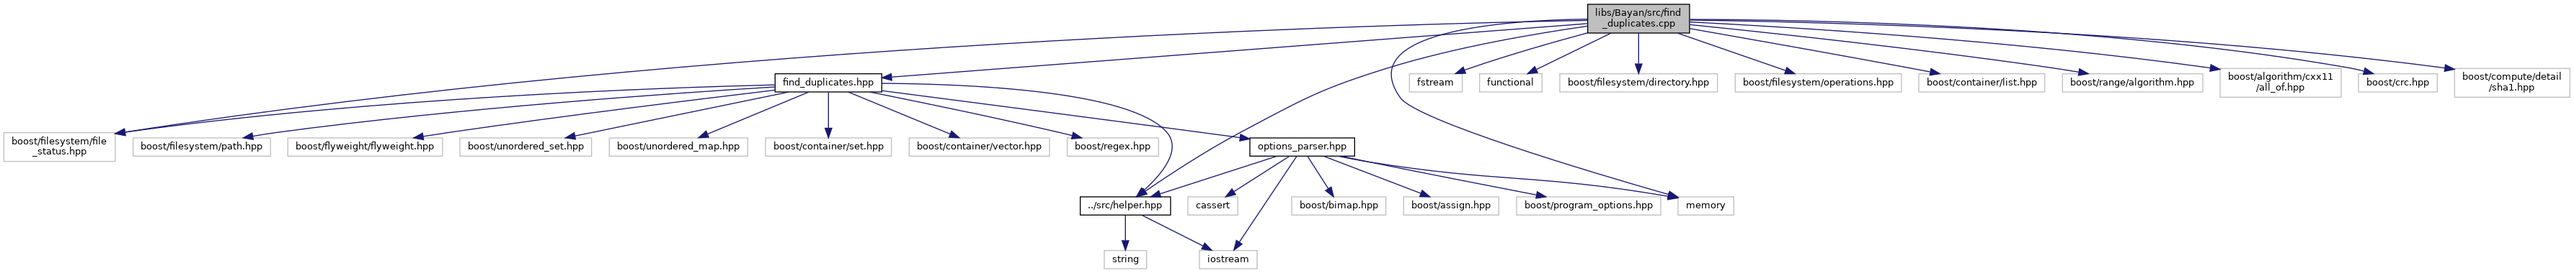
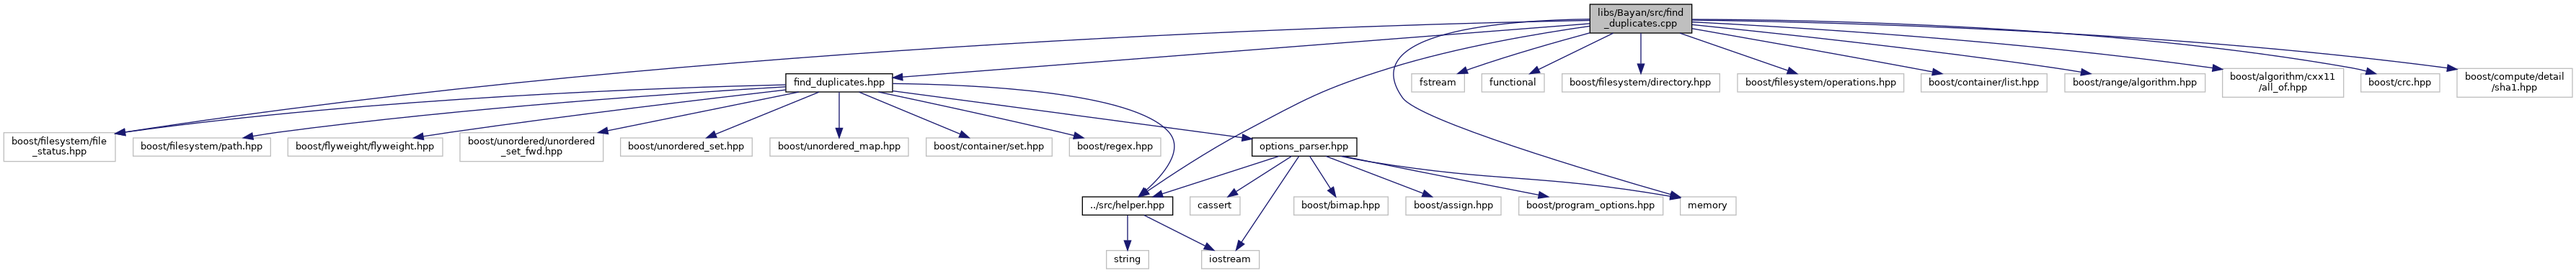
Deploying to gh-pages from @ NotZahar/bayan@1234aafaee01aa2d86c95944fb79ae6e6361fd2a 🚀

diff --git a/find__duplicates_8hpp_source.html b/find__duplicates_8hpp_source.html
@@ -77,10 +77,10 @@ $(function() {
 <div class="line"><a name="l00004"></a><span class="lineno">    4</span>&#160;<span class="preprocessor">#include &lt;boost/filesystem/file_status.hpp&gt;</span></div>
 <div class="line"><a name="l00005"></a><span class="lineno">    5</span>&#160;<span class="preprocessor">#include &lt;boost/filesystem/path.hpp&gt;</span></div>
 <div class="line"><a name="l00006"></a><span class="lineno">    6</span>&#160;<span class="preprocessor">#include &lt;boost/flyweight/flyweight.hpp&gt;</span></div>
-<div class="line"><a name="l00007"></a><span class="lineno">    7</span>&#160;<span class="preprocessor">#include &lt;boost/unordered_set.hpp&gt;</span></div>
-<div class="line"><a name="l00008"></a><span class="lineno">    8</span>&#160;<span class="preprocessor">#include &lt;boost/unordered_map.hpp&gt;</span></div>
-<div class="line"><a name="l00009"></a><span class="lineno">    9</span>&#160;<span class="preprocessor">#include &lt;boost/container/set.hpp&gt;</span></div>
-<div class="line"><a name="l00010"></a><span class="lineno">   10</span>&#160;<span class="preprocessor">#include &lt;boost/container/vector.hpp&gt;</span></div>
+<div class="line"><a name="l00007"></a><span class="lineno">    7</span>&#160;<span class="preprocessor">#include &lt;boost/unordered/unordered_set_fwd.hpp&gt;</span></div>
+<div class="line"><a name="l00008"></a><span class="lineno">    8</span>&#160;<span class="preprocessor">#include &lt;boost/unordered_set.hpp&gt;</span></div>
+<div class="line"><a name="l00009"></a><span class="lineno">    9</span>&#160;<span class="preprocessor">#include &lt;boost/unordered_map.hpp&gt;</span></div>
+<div class="line"><a name="l00010"></a><span class="lineno">   10</span>&#160;<span class="preprocessor">#include &lt;boost/container/set.hpp&gt;</span></div>
 <div class="line"><a name="l00011"></a><span class="lineno">   11</span>&#160;<span class="preprocessor">#include &lt;boost/regex.hpp&gt;</span></div>
 <div class="line"><a name="l00012"></a><span class="lineno">   12</span>&#160; </div>
 <div class="line"><a name="l00013"></a><span class="lineno">   13</span>&#160;<span class="preprocessor">#include &quot;<a class="code" href="options__parser_8hpp.html">options_parser.hpp</a>&quot;</span></div>
@@ -93,7 +93,7 @@ $(function() {
 <div class="line"><a name="l00020"></a><span class="lineno">   20</span>&#160;        <span class="keyword">explicit</span> <a class="code" href="classbayan_1_1FindDuplicates.html#abafa29fdb6be05ac0e37fa89cdb2cc69">FindDuplicates</a>(<a class="code" href="structbayan_1_1OptionsParser_1_1Options.html">OptionsParser::Options</a> options);</div>
 <div class="line"><a name="l00021"></a><span class="lineno"><a class="line" href="classbayan_1_1FindDuplicates.html#a43cbff9e5eaf21ba41545597d4b7656d">   21</a></span>&#160;        <a class="code" href="classbayan_1_1FindDuplicates.html#a43cbff9e5eaf21ba41545597d4b7656d">~FindDuplicates</a>() = <span class="keywordflow">default</span>;</div>
 <div class="line"><a name="l00022"></a><span class="lineno">   22</span>&#160; </div>
-<div class="line"><a name="l00023"></a><span class="lineno">   23</span>&#160;        boost::container::set&lt;boost::container::set&lt;std::string&gt;&gt; <a class="code" href="classbayan_1_1FindDuplicates.html#a32cf64eebef64dd78d116d3f567a406b">duplicates</a>() <span class="keyword">const</span>;</div>
+<div class="line"><a name="l00023"></a><span class="lineno">   23</span>&#160;        boost::container::set&lt;boost::container::set&lt;boost::filesystem::path&gt;&gt; <a class="code" href="classbayan_1_1FindDuplicates.html#a693e297272a562b4d91ee519ba6b542b">duplicates</a>() <span class="keyword">const</span>;</div>
 <div class="line"><a name="l00024"></a><span class="lineno">   24</span>&#160; </div>
 <div class="line"><a name="l00025"></a><span class="lineno">   25</span>&#160;    <span class="keyword">private</span>:</div>
 <div class="line"><a name="l00026"></a><span class="lineno">   26</span>&#160;        <span class="keyword">enum class</span> fileType {</div>
@@ -112,10 +112,10 @@ $(function() {
 <div class="line"><a name="l00039"></a><span class="lineno">   39</span>&#160;            <span class="keywordtype">unsigned</span> <span class="keywordtype">int</span> size;</div>
 <div class="line"><a name="l00040"></a><span class="lineno">   40</span>&#160;        };</div>
 <div class="line"><a name="l00041"></a><span class="lineno">   41</span>&#160; </div>
-<div class="line"><a name="l00042"></a><span class="lineno">   42</span>&#160;        <span class="keyword">using</span> scanFiles_t = boost::unordered_map&lt;unsigned int, boost::container::vector&lt;boost::filesystem::path&gt;&gt;;</div>
+<div class="line"><a name="l00042"></a><span class="lineno">   42</span>&#160;        <span class="keyword">using</span> scanFiles_t = boost::unordered_map&lt;unsigned int, boost::unordered_set&lt;boost::filesystem::path&gt;&gt;;</div>
 <div class="line"><a name="l00043"></a><span class="lineno">   43</span>&#160; </div>
 <div class="line"><a name="l00044"></a><span class="lineno">   44</span>&#160;        scanFiles_t getFilesToFind() <span class="keyword">const</span>;</div>
-<div class="line"><a name="l00045"></a><span class="lineno">   45</span>&#160;        boost::container::set&lt;boost::container::set&lt;std::string&gt;&gt; findDuplicates(scanFiles_t scanFiles) <span class="keyword">const</span>;</div>
+<div class="line"><a name="l00045"></a><span class="lineno">   45</span>&#160;        boost::container::set&lt;boost::container::set&lt;boost::filesystem::path&gt;&gt; findDuplicates(scanFiles_t scanFiles) <span class="keyword">const</span>;</div>
 <div class="line"><a name="l00046"></a><span class="lineno">   46</span>&#160;        fileType getFileType(<span class="keyword">const</span> boost::filesystem::directory_entry&amp; file) <span class="keyword">const</span>;</div>
 <div class="line"><a name="l00047"></a><span class="lineno">   47</span>&#160;        FilterResult filterPassed(<span class="keyword">const</span> boost::filesystem::path&amp; path) <span class="keyword">const</span>;</div>
 <div class="line"><a name="l00048"></a><span class="lineno">   48</span>&#160; </div>
@@ -131,8 +131,8 @@ $(function() {
 <div class="line"><a name="l00058"></a><span class="lineno">   58</span>&#160; </div>
 <div class="line"><a name="l00059"></a><span class="lineno">   59</span>&#160;<span class="preprocessor">#endif </span><span class="comment">// FIND_DUPLICATES_H</span></div>
 <div class="ttc" id="aclassbayan_1_1FindDuplicates_html"><div class="ttname"><a href="classbayan_1_1FindDuplicates.html">bayan::FindDuplicates</a></div><div class="ttdef"><b>Definition:</b> find_duplicates.hpp:17</div></div>
-<div class="ttc" id="aclassbayan_1_1FindDuplicates_html_a32cf64eebef64dd78d116d3f567a406b"><div class="ttname"><a href="classbayan_1_1FindDuplicates.html#a32cf64eebef64dd78d116d3f567a406b">bayan::FindDuplicates::duplicates</a></div><div class="ttdeci">boost::container::set&lt; boost::container::set&lt; std::string &gt; &gt; duplicates() const</div><div class="ttdef"><b>Definition:</b> find_duplicates.cpp:38</div></div>
 <div class="ttc" id="aclassbayan_1_1FindDuplicates_html_a43cbff9e5eaf21ba41545597d4b7656d"><div class="ttname"><a href="classbayan_1_1FindDuplicates.html#a43cbff9e5eaf21ba41545597d4b7656d">bayan::FindDuplicates::~FindDuplicates</a></div><div class="ttdeci">~FindDuplicates()=default</div></div>
+<div class="ttc" id="aclassbayan_1_1FindDuplicates_html_a693e297272a562b4d91ee519ba6b542b"><div class="ttname"><a href="classbayan_1_1FindDuplicates.html#a693e297272a562b4d91ee519ba6b542b">bayan::FindDuplicates::duplicates</a></div><div class="ttdeci">boost::container::set&lt; boost::container::set&lt; boost::filesystem::path &gt; &gt; duplicates() const</div><div class="ttdef"><b>Definition:</b> find_duplicates.cpp:38</div></div>
 <div class="ttc" id="aclassbayan_1_1FindDuplicates_html_abafa29fdb6be05ac0e37fa89cdb2cc69"><div class="ttname"><a href="classbayan_1_1FindDuplicates.html#abafa29fdb6be05ac0e37fa89cdb2cc69">bayan::FindDuplicates::FindDuplicates</a></div><div class="ttdeci">FindDuplicates()=delete</div></div>
 <div class="ttc" id="anamespacebayan_html"><div class="ttname"><a href="namespacebayan.html">bayan</a></div><div class="ttdef"><b>Definition:</b> find_duplicates.hpp:16</div></div>
 <div class="ttc" id="anamespacebayan_html_a6c9e7c798ad66b9e4be5bdac54ef967f"><div class="ttname"><a href="namespacebayan.html#a6c9e7c798ad66b9e4be5bdac54ef967f">bayan::hashAlgorithm</a></div><div class="ttdeci">hashAlgorithm</div><div class="ttdef"><b>Definition:</b> helper.hpp:13</div></div>

diff --git a/find__duplicates_8cpp.html b/find__duplicates_8cpp.html
@@ -91,34 +91,34 @@ $(function() {
 <div class="dyncontent">
 <div class="center"><img src="find__duplicates_8cpp__incl.png" border="0" usemap="#alibs_2Bayan_2src_2find__duplicates_8cpp" alt=""/></div>
 <map name="alibs_2Bayan_2src_2find__duplicates_8cpp" id="alibs_2Bayan_2src_2find__duplicates_8cpp">
-<area shape="rect" title=" " alt="" coords="2203,5,2344,47"/>
-<area shape="rect" href="find__duplicates_8hpp.html" title=" " alt="" coords="1075,102,1223,129"/>
+<area shape="rect" title=" " alt="" coords="2205,5,2347,47"/>
+<area shape="rect" href="find__duplicates_8hpp.html" title=" " alt="" coords="1090,102,1238,129"/>
 <area shape="rect" title=" " alt="" coords="5,184,160,225"/>
-<area shape="rect" title=" " alt="" coords="2328,273,2405,300"/>
-<area shape="rect" href="helper_8hpp.html" title=" " alt="" coords="1499,273,1624,300"/>
-<area shape="rect" title=" " alt="" coords="1955,102,2029,129"/>
-<area shape="rect" title=" " alt="" coords="2053,102,2139,129"/>
-<area shape="rect" title=" " alt="" coords="2164,102,2383,129"/>
-<area shape="rect" title=" " alt="" coords="2407,102,2638,129"/>
-<area shape="rect" title=" " alt="" coords="2662,102,2837,129"/>
-<area shape="rect" title=" " alt="" coords="2861,102,3056,129"/>
-<area shape="rect" title=" " alt="" coords="3080,95,3248,136"/>
-<area shape="rect" title=" " alt="" coords="3272,102,3381,129"/>
-<area shape="rect" title=" " alt="" coords="3405,95,3565,136"/>
+<area shape="rect" title=" " alt="" coords="2331,273,2408,300"/>
+<area shape="rect" href="helper_8hpp.html" title=" " alt="" coords="1501,273,1627,300"/>
+<area shape="rect" title=" " alt="" coords="1958,102,2031,129"/>
+<area shape="rect" title=" " alt="" coords="2055,102,2142,129"/>
+<area shape="rect" title=" " alt="" coords="2167,102,2385,129"/>
+<area shape="rect" title=" " alt="" coords="2410,102,2641,129"/>
+<area shape="rect" title=" " alt="" coords="2665,102,2839,129"/>
+<area shape="rect" title=" " alt="" coords="2864,102,3059,129"/>
+<area shape="rect" title=" " alt="" coords="3083,95,3251,136"/>
+<area shape="rect" title=" " alt="" coords="3275,102,3384,129"/>
+<area shape="rect" title=" " alt="" coords="3408,95,3568,136"/>
 <area shape="rect" title=" " alt="" coords="185,191,375,218"/>
 <area shape="rect" title=" " alt="" coords="399,191,614,218"/>
-<area shape="rect" title=" " alt="" coords="638,191,821,218"/>
-<area shape="rect" title=" " alt="" coords="845,191,1037,218"/>
-<area shape="rect" title=" " alt="" coords="1062,191,1237,218"/>
-<area shape="rect" title=" " alt="" coords="1261,191,1456,218"/>
-<area shape="rect" title=" " alt="" coords="1481,191,1607,218"/>
-<area shape="rect" href="options__parser_8hpp.html" title=" " alt="" coords="1734,191,1879,218"/>
-<area shape="rect" title=" " alt="" coords="1648,273,1717,300"/>
-<area shape="rect" title=" " alt="" coords="1664,348,1744,375"/>
-<area shape="rect" title=" " alt="" coords="1792,273,1923,300"/>
-<area shape="rect" title=" " alt="" coords="1947,273,2079,300"/>
-<area shape="rect" title=" " alt="" coords="2104,273,2304,300"/>
-<area shape="rect" title=" " alt="" coords="1532,348,1591,375"/>
+<area shape="rect" title=" " alt="" coords="638,184,837,225"/>
+<area shape="rect" title=" " alt="" coords="861,191,1043,218"/>
+<area shape="rect" title=" " alt="" coords="1068,191,1260,218"/>
+<area shape="rect" title=" " alt="" coords="1285,191,1459,218"/>
+<area shape="rect" title=" " alt="" coords="1483,191,1610,218"/>
+<area shape="rect" href="options__parser_8hpp.html" title=" " alt="" coords="1737,191,1882,218"/>
+<area shape="rect" title=" " alt="" coords="1651,273,1720,300"/>
+<area shape="rect" title=" " alt="" coords="1667,348,1747,375"/>
+<area shape="rect" title=" " alt="" coords="1795,273,1925,300"/>
+<area shape="rect" title=" " alt="" coords="1950,273,2082,300"/>
+<area shape="rect" title=" " alt="" coords="2107,273,2307,300"/>
+<area shape="rect" title=" " alt="" coords="1535,348,1593,375"/>
 </map>
 </div>
 </div><table class="memberdecls">

diff --git a/find__duplicates_8hpp.html b/find__duplicates_8hpp.html
@@ -77,10 +77,10 @@ $(function() {
 <div class="textblock"><code>#include &lt;boost/filesystem/file_status.hpp&gt;</code><br />
 <code>#include &lt;boost/filesystem/path.hpp&gt;</code><br />
 <code>#include &lt;boost/flyweight/flyweight.hpp&gt;</code><br />
+<code>#include &lt;boost/unordered/unordered_set_fwd.hpp&gt;</code><br />
 <code>#include &lt;boost/unordered_set.hpp&gt;</code><br />
 <code>#include &lt;boost/unordered_map.hpp&gt;</code><br />
 <code>#include &lt;boost/container/set.hpp&gt;</code><br />
-<code>#include &lt;boost/container/vector.hpp&gt;</code><br />
 <code>#include &lt;boost/regex.hpp&gt;</code><br />
 <code>#include &quot;<a class="el" href="options__parser_8hpp_source.html">options_parser.hpp</a>&quot;</code><br />
 <code>#include &quot;<a class="el" href="helper_8hpp_source.html">../src/helper.hpp</a>&quot;</code><br />
@@ -89,24 +89,24 @@ $(function() {
 <div class="dyncontent">
 <div class="center"><img src="find__duplicates_8hpp__incl.png" border="0" usemap="#alibs_2Bayan_2include_2find__duplicates_8hpp" alt=""/></div>
 <map name="alibs_2Bayan_2include_2find__duplicates_8hpp" id="alibs_2Bayan_2include_2find__duplicates_8hpp">
-<area shape="rect" title=" " alt="" coords="969,5,1121,47"/>
+<area shape="rect" title=" " alt="" coords="981,5,1133,47"/>
 <area shape="rect" title=" " alt="" coords="5,95,160,136"/>
 <area shape="rect" title=" " alt="" coords="185,102,375,129"/>
 <area shape="rect" title=" " alt="" coords="399,102,614,129"/>
-<area shape="rect" title=" " alt="" coords="638,102,821,129"/>
-<area shape="rect" title=" " alt="" coords="845,102,1037,129"/>
-<area shape="rect" title=" " alt="" coords="1062,102,1237,129"/>
-<area shape="rect" title=" " alt="" coords="1261,102,1456,129"/>
-<area shape="rect" title=" " alt="" coords="1481,102,1607,129"/>
-<area shape="rect" href="options__parser_8hpp.html" title=" " alt="" coords="1631,102,1777,129"/>
-<area shape="rect" href="helper_8hpp.html" title=" " alt="" coords="2096,184,2221,211"/>
-<area shape="rect" title=" " alt="" coords="1315,184,1384,211"/>
-<area shape="rect" title=" " alt="" coords="1704,259,1784,285"/>
-<area shape="rect" title=" " alt="" coords="1459,184,1536,211"/>
-<area shape="rect" title=" " alt="" coords="1560,184,1691,211"/>
-<area shape="rect" title=" " alt="" coords="1715,184,1847,211"/>
-<area shape="rect" title=" " alt="" coords="1872,184,2072,211"/>
-<area shape="rect" title=" " alt="" coords="2129,259,2188,285"/>
+<area shape="rect" title=" " alt="" coords="638,95,837,136"/>
+<area shape="rect" title=" " alt="" coords="861,102,1043,129"/>
+<area shape="rect" title=" " alt="" coords="1068,102,1260,129"/>
+<area shape="rect" title=" " alt="" coords="1285,102,1459,129"/>
+<area shape="rect" title=" " alt="" coords="1483,102,1610,129"/>
+<area shape="rect" href="options__parser_8hpp.html" title=" " alt="" coords="1634,102,1779,129"/>
+<area shape="rect" href="helper_8hpp.html" title=" " alt="" coords="2099,184,2224,211"/>
+<area shape="rect" title=" " alt="" coords="1317,184,1387,211"/>
+<area shape="rect" title=" " alt="" coords="1707,259,1787,285"/>
+<area shape="rect" title=" " alt="" coords="1461,184,1539,211"/>
+<area shape="rect" title=" " alt="" coords="1563,184,1693,211"/>
+<area shape="rect" title=" " alt="" coords="1718,184,1850,211"/>
+<area shape="rect" title=" " alt="" coords="1875,184,2075,211"/>
+<area shape="rect" title=" " alt="" coords="2132,259,2191,285"/>
 </map>
 </div>
 </div><div class="textblock"><div class="dynheader">

diff --git a/options__parser_8hpp_source.html b/options__parser_8hpp_source.html
@@ -102,7 +102,7 @@ $(function() {
 <div class="line"><a name="l00029"></a><span class="lineno"><a class="line" href="structbayan_1_1OptionsParser_1_1Options.html#a7f900f5eefc86eb4b84a40544c184cc7">   29</a></span>&#160;            <span class="keywordtype">unsigned</span> <span class="keywordtype">int</span> <a class="code" href="structbayan_1_1OptionsParser_1_1Options.html#a7f900f5eefc86eb4b84a40544c184cc7">fileMinSize</a> = 1;</div>
 <div class="line"><a name="l00030"></a><span class="lineno"><a class="line" href="structbayan_1_1OptionsParser_1_1Options.html#ae81161c2ed1ecb5845852b2fdfc58042">   30</a></span>&#160;            std::vector&lt;std::string&gt; <a class="code" href="structbayan_1_1OptionsParser_1_1Options.html#ae81161c2ed1ecb5845852b2fdfc58042">fileMasks</a> = { <span class="stringliteral">&quot;.*&quot;</span> };</div>
 <div class="line"><a name="l00031"></a><span class="lineno"><a class="line" href="structbayan_1_1OptionsParser_1_1Options.html#adb911a54ca88e56a00f5b808550c91a0">   31</a></span>&#160;            <span class="keywordtype">unsigned</span> <span class="keywordtype">int</span> <a class="code" href="structbayan_1_1OptionsParser_1_1Options.html#adb911a54ca88e56a00f5b808550c91a0">blockSize</a> = 5;</div>
-<div class="line"><a name="l00032"></a><span class="lineno"><a class="line" href="structbayan_1_1OptionsParser_1_1Options.html#a6d46f13243288e16505b35532a22dd0e">   32</a></span>&#160;            <a class="code" href="namespacebayan.html#a6c9e7c798ad66b9e4be5bdac54ef967f">hashAlgorithm</a> <a class="code" href="structbayan_1_1OptionsParser_1_1Options.html#a6d46f13243288e16505b35532a22dd0e">algorithm</a> = <a class="code" href="namespacebayan.html#a6c9e7c798ad66b9e4be5bdac54ef967fa74a89174426b40307102e165374ab8ab">hashAlgorithm::sha1</a>;</div>
+<div class="line"><a name="l00032"></a><span class="lineno"><a class="line" href="structbayan_1_1OptionsParser_1_1Options.html#a6d46f13243288e16505b35532a22dd0e">   32</a></span>&#160;            <a class="code" href="namespacebayan.html#a6c9e7c798ad66b9e4be5bdac54ef967f">hashAlgorithm</a> <a class="code" href="structbayan_1_1OptionsParser_1_1Options.html#a6d46f13243288e16505b35532a22dd0e">algorithm</a> = <a class="code" href="namespacebayan.html#a6c9e7c798ad66b9e4be5bdac54ef967fa058063301b99cb43d6165291cb9f086a">hashAlgorithm::crc32</a>;</div>
 <div class="line"><a name="l00033"></a><span class="lineno">   33</span>&#160; </div>
 <div class="line"><a name="l00034"></a><span class="lineno">   34</span>&#160;            <span class="keyword">friend</span> std::ostream&amp; <a class="code" href="structbayan_1_1OptionsParser_1_1Options.html#a4a0f229a993110a8fd20f91da0c53764">operator&lt;&lt;</a>(std::ostream&amp; os, <span class="keyword">const</span> <a class="code" href="structbayan_1_1OptionsParser_1_1Options.html">Options</a>&amp; options);</div>
 <div class="line"><a name="l00035"></a><span class="lineno">   35</span>&#160;        };</div>

diff --git a/structbayan_1_1OptionsParser_1_1Options.html b/structbayan_1_1OptionsParser_1_1Options.html
@@ -94,7 +94,7 @@ $(function() {
 <tr class="separator:ae81161c2ed1ecb5845852b2fdfc58042"><td class="memSeparator" colspan="2">&#160;</td></tr>
 <tr class="memitem:adb911a54ca88e56a00f5b808550c91a0"><td class="memItemLeft" align="right" valign="top">unsigned int&#160;</td><td class="memItemRight" valign="bottom"><a class="el" href="structbayan_1_1OptionsParser_1_1Options.html#adb911a54ca88e56a00f5b808550c91a0">blockSize</a> = 5</td></tr>
 <tr class="separator:adb911a54ca88e56a00f5b808550c91a0"><td class="memSeparator" colspan="2">&#160;</td></tr>
-<tr class="memitem:a6d46f13243288e16505b35532a22dd0e"><td class="memItemLeft" align="right" valign="top"><a class="el" href="namespacebayan.html#a6c9e7c798ad66b9e4be5bdac54ef967f">hashAlgorithm</a>&#160;</td><td class="memItemRight" valign="bottom"><a class="el" href="structbayan_1_1OptionsParser_1_1Options.html#a6d46f13243288e16505b35532a22dd0e">algorithm</a> = <a class="el" href="namespacebayan.html#a6c9e7c798ad66b9e4be5bdac54ef967fa74a89174426b40307102e165374ab8ab">hashAlgorithm::sha1</a></td></tr>
+<tr class="memitem:a6d46f13243288e16505b35532a22dd0e"><td class="memItemLeft" align="right" valign="top"><a class="el" href="namespacebayan.html#a6c9e7c798ad66b9e4be5bdac54ef967f">hashAlgorithm</a>&#160;</td><td class="memItemRight" valign="bottom"><a class="el" href="structbayan_1_1OptionsParser_1_1Options.html#a6d46f13243288e16505b35532a22dd0e">algorithm</a> = <a class="el" href="namespacebayan.html#a6c9e7c798ad66b9e4be5bdac54ef967fa058063301b99cb43d6165291cb9f086a">hashAlgorithm::crc32</a></td></tr>
 <tr class="separator:a6d46f13243288e16505b35532a22dd0e"><td class="memSeparator" colspan="2">&#160;</td></tr>
 </table><table class="memberdecls">
 <tr class="heading"><td colspan="2"><h2 class="groupheader"><a name="friends"></a>
@@ -147,7 +147,7 @@ $(function() {
 <div class="memproto">
       <table class="memname">
         <tr>
-          <td class="memname"><a class="el" href="namespacebayan.html#a6c9e7c798ad66b9e4be5bdac54ef967f">hashAlgorithm</a> bayan::OptionsParser::Options::algorithm = <a class="el" href="namespacebayan.html#a6c9e7c798ad66b9e4be5bdac54ef967fa74a89174426b40307102e165374ab8ab">hashAlgorithm::sha1</a></td>
+          <td class="memname"><a class="el" href="namespacebayan.html#a6c9e7c798ad66b9e4be5bdac54ef967f">hashAlgorithm</a> bayan::OptionsParser::Options::algorithm = <a class="el" href="namespacebayan.html#a6c9e7c798ad66b9e4be5bdac54ef967fa058063301b99cb43d6165291cb9f086a">hashAlgorithm::crc32</a></td>
         </tr>
       </table>
 </div><div class="memdoc">

diff --git a/classbayan_1_1FindDuplicates.html b/classbayan_1_1FindDuplicates.html
@@ -86,8 +86,8 @@ $(function() {
 <tr class="separator:a7e90ac128fc362860f0ab2ae2a803263"><td class="memSeparator" colspan="2">&#160;</td></tr>
 <tr class="memitem:a43cbff9e5eaf21ba41545597d4b7656d"><td class="memItemLeft" align="right" valign="top">&#160;</td><td class="memItemRight" valign="bottom"><a class="el" href="classbayan_1_1FindDuplicates.html#a43cbff9e5eaf21ba41545597d4b7656d">~FindDuplicates</a> ()=default</td></tr>
 <tr class="separator:a43cbff9e5eaf21ba41545597d4b7656d"><td class="memSeparator" colspan="2">&#160;</td></tr>
-<tr class="memitem:a32cf64eebef64dd78d116d3f567a406b"><td class="memItemLeft" align="right" valign="top">boost::container::set&lt; boost::container::set&lt; std::string &gt; &gt;&#160;</td><td class="memItemRight" valign="bottom"><a class="el" href="classbayan_1_1FindDuplicates.html#a32cf64eebef64dd78d116d3f567a406b">duplicates</a> () const</td></tr>
-<tr class="separator:a32cf64eebef64dd78d116d3f567a406b"><td class="memSeparator" colspan="2">&#160;</td></tr>
+<tr class="memitem:a693e297272a562b4d91ee519ba6b542b"><td class="memItemLeft" align="right" valign="top">boost::container::set&lt; boost::container::set&lt; boost::filesystem::path &gt; &gt;&#160;</td><td class="memItemRight" valign="bottom"><a class="el" href="classbayan_1_1FindDuplicates.html#a693e297272a562b4d91ee519ba6b542b">duplicates</a> () const</td></tr>
+<tr class="separator:a693e297272a562b4d91ee519ba6b542b"><td class="memSeparator" colspan="2">&#160;</td></tr>
 </table>
 <h2 class="groupheader">Конструктор(ы)</h2>
 <a id="abafa29fdb6be05ac0e37fa89cdb2cc69"></a>
@@ -167,14 +167,14 @@ $(function() {
 </div>
 </div>
 <h2 class="groupheader">Методы</h2>
-<a id="a32cf64eebef64dd78d116d3f567a406b"></a>
-<h2 class="memtitle"><span class="permalink"><a href="#a32cf64eebef64dd78d116d3f567a406b">&#9670;&nbsp;</a></span>duplicates()</h2>
+<a id="a693e297272a562b4d91ee519ba6b542b"></a>
+<h2 class="memtitle"><span class="permalink"><a href="#a693e297272a562b4d91ee519ba6b542b">&#9670;&nbsp;</a></span>duplicates()</h2>
 
 <div class="memitem">
 <div class="memproto">
       <table class="memname">
         <tr>
-          <td class="memname">boost_cr::set&lt; boost_cr::set&lt; std::string &gt; &gt; bayan::FindDuplicates::duplicates </td>
+          <td class="memname">boost_cr::set&lt; boost_cr::set&lt; boost_fs::path &gt; &gt; bayan::FindDuplicates::duplicates </td>
           <td>(</td>
           <td class="paramname"></td><td>)</td>
           <td> const</td>

diff --git a/classbayan_1_1FindDuplicates-members.html b/classbayan_1_1FindDuplicates-members.html
@@ -74,7 +74,7 @@ $(function() {
 
 <p>Полный список членов класса <a class="el" href="classbayan_1_1FindDuplicates.html">bayan::FindDuplicates</a>, включая наследуемые из базового класса</p>
 <table class="directory">
-  <tr class="even"><td class="entry"><a class="el" href="classbayan_1_1FindDuplicates.html#a32cf64eebef64dd78d116d3f567a406b">duplicates</a>() const</td><td class="entry"><a class="el" href="classbayan_1_1FindDuplicates.html">bayan::FindDuplicates</a></td><td class="entry"></td></tr>
+  <tr class="even"><td class="entry"><a class="el" href="classbayan_1_1FindDuplicates.html#a693e297272a562b4d91ee519ba6b542b">duplicates</a>() const</td><td class="entry"><a class="el" href="classbayan_1_1FindDuplicates.html">bayan::FindDuplicates</a></td><td class="entry"></td></tr>
   <tr><td class="entry"><a class="el" href="classbayan_1_1FindDuplicates.html#abafa29fdb6be05ac0e37fa89cdb2cc69">FindDuplicates</a>()=delete</td><td class="entry"><a class="el" href="classbayan_1_1FindDuplicates.html">bayan::FindDuplicates</a></td><td class="entry"></td></tr>
   <tr class="even"><td class="entry"><a class="el" href="classbayan_1_1FindDuplicates.html#a7e90ac128fc362860f0ab2ae2a803263">FindDuplicates</a>(OptionsParser::Options options)</td><td class="entry"><a class="el" href="classbayan_1_1FindDuplicates.html">bayan::FindDuplicates</a></td><td class="entry"><span class="mlabel">explicit</span></td></tr>
   <tr><td class="entry"><a class="el" href="classbayan_1_1FindDuplicates.html#a43cbff9e5eaf21ba41545597d4b7656d">~FindDuplicates</a>()=default</td><td class="entry"><a class="el" href="classbayan_1_1FindDuplicates.html">bayan::FindDuplicates</a></td><td class="entry"></td></tr>

diff --git a/md_README.html b/md_README.html
@@ -76,11 +76,11 @@ $(function() {
  <b>-f</b> минимальный размер файла (&gt;= <code>1</code>) <br  />
  <b>-m</b> маски имен файлов разрешенных для сравнения (регулярное выражение, параметр указывается в конце) <br  />
  <b>-b</b> размер блока чтения <br  />
- <b>-a</b> алгоритм хэширования (<code>crc32</code>, <code>md5</code>) <br  />
+ <b>-a</b> алгоритм хэширования (<code>crc32</code>, <code>sha1</code>) <br  />
 </p>
 <h4><a class="anchor" id="autotoc_md2"></a>
 Пример:</h4>
-<p><code>bayan -d./test -d"./libs" -e"./test/test 1" -l1 -f1 -m".*\\.txt" -m".*a{1,}.*" -b5 -amd5</code></p>
+<p><code>bayan -d./test -d"./libs" -e"./test/test 1" -l1 -f1 -m".*\\.txt" -m".*a{1,}.*" -b5 -acrc32</code></p>
 <p>Документация: <a href="https://notzahar.github.io/bayan/">https://notzahar.github.io/bayan/</a> </p>
 </div></div><!-- contents -->
 </div><!-- PageDoc -->

diff --git a/main_8cpp.html b/main_8cpp.html
@@ -95,11 +95,11 @@ $(function() {
 <area shape="rect" title=" " alt="" coords="491,155,645,196"/>
 <area shape="rect" title=" " alt="" coords="670,162,861,189"/>
 <area shape="rect" title=" " alt="" coords="885,162,1099,189"/>
-<area shape="rect" title=" " alt="" coords="1123,162,1306,189"/>
-<area shape="rect" title=" " alt="" coords="1331,162,1523,189"/>
-<area shape="rect" title=" " alt="" coords="1547,162,1722,189"/>
-<area shape="rect" title=" " alt="" coords="1747,162,1941,189"/>
-<area shape="rect" title=" " alt="" coords="1966,162,2093,189"/>
+<area shape="rect" title=" " alt="" coords="1123,155,1322,196"/>
+<area shape="rect" title=" " alt="" coords="1346,162,1529,189"/>
+<area shape="rect" title=" " alt="" coords="1553,162,1745,189"/>
+<area shape="rect" title=" " alt="" coords="1770,162,1945,189"/>
+<area shape="rect" title=" " alt="" coords="1969,162,2095,189"/>
 </map>
 </div>
 </div><table class="memberdecls">

diff --git a/search/all_3.js b/search/all_3.js
@@ -5,5 +5,5 @@ var searchData=
   ['dir_5fscan_5ff_17',['DIR_SCAN_F',['../structbayan_1_1messages_1_1commands.html#a41eac7ac1ac75b81a487a73b56a038a7',1,'bayan::messages::commands']]],
   ['dirs_18',['dirs',['../structbayan_1_1OptionsParser_1_1Options.html#a0626a5038a4a9611bf36f52dc5315e58',1,'bayan::OptionsParser::Options']]],
   ['dirs_19',['DIRS',['../structbayan_1_1messages_1_1general.html#a63ab65738188be6f30dac240aee2a45e',1,'bayan::messages::general']]],
-  ['duplicates_20',['duplicates',['../classbayan_1_1FindDuplicates.html#a32cf64eebef64dd78d116d3f567a406b',1,'bayan::FindDuplicates']]]
+  ['duplicates_20',['duplicates',['../classbayan_1_1FindDuplicates.html#a693e297272a562b4d91ee519ba6b542b',1,'bayan::FindDuplicates']]]
 ];

diff --git a/functions_func.html b/functions_func.html
@@ -65,7 +65,7 @@ $(function() {
 <div class="contents">
 &#160;<ul>
 <li>duplicates()
-: <a class="el" href="classbayan_1_1FindDuplicates.html#a32cf64eebef64dd78d116d3f567a406b">bayan::FindDuplicates</a>
+: <a class="el" href="classbayan_1_1FindDuplicates.html#a693e297272a562b4d91ee519ba6b542b">bayan::FindDuplicates</a>
 </li>
 <li>FindDuplicates()
 : <a class="el" href="classbayan_1_1FindDuplicates.html#abafa29fdb6be05ac0e37fa89cdb2cc69">bayan::FindDuplicates</a>

diff --git a/functions.html b/functions.html
@@ -116,7 +116,7 @@ $(function() {
 : <a class="el" href="structbayan_1_1OptionsParser_1_1Options.html#a0626a5038a4a9611bf36f52dc5315e58">bayan::OptionsParser::Options</a>
 </li>
 <li>duplicates()
-: <a class="el" href="classbayan_1_1FindDuplicates.html#a32cf64eebef64dd78d116d3f567a406b">bayan::FindDuplicates</a>
+: <a class="el" href="classbayan_1_1FindDuplicates.html#a693e297272a562b4d91ee519ba6b542b">bayan::FindDuplicates</a>
 </li>
 </ul>
 
